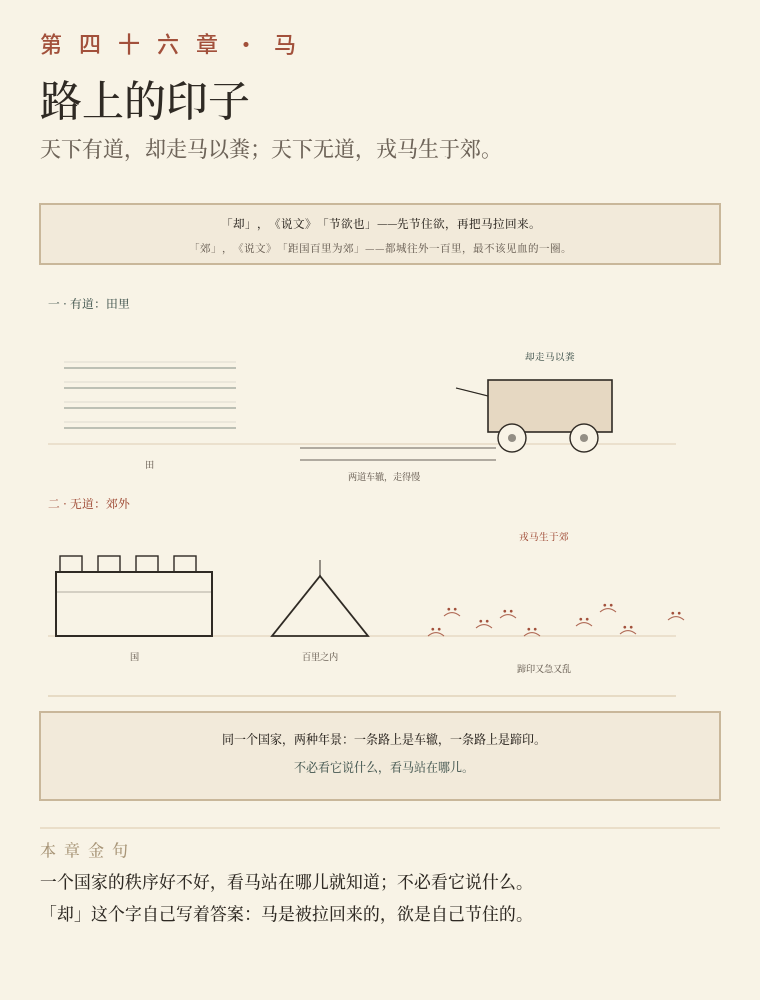
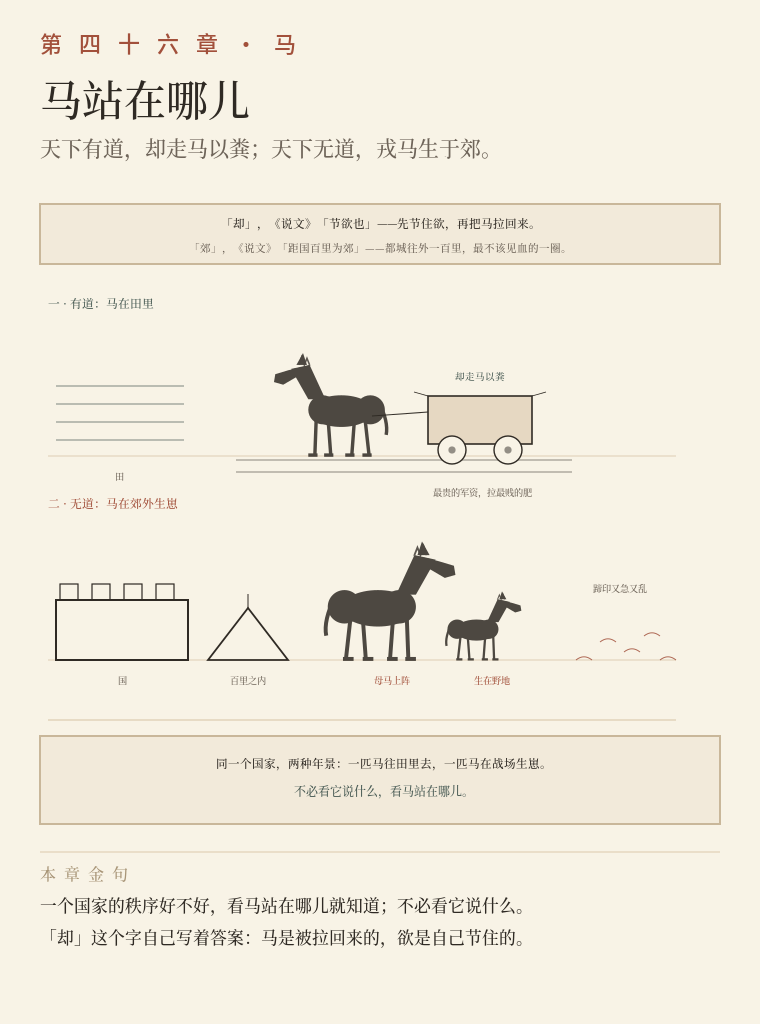
2.9.16 ch46a 重画：把马画出来

diff --git a/tools/make_yili_svg.py b/tools/make_yili_svg.py
@@ -3958,10 +3958,37 @@ def ch45c_yin_er_bu_fa():
     return "\n".join(s)
 
 # ============ 第四十六章 · 路上的印子 ============
+def horse(s, x, gy, k=1.0, flip=False, col=None, op=0.85):
+    """侧立一匹马，脚在 gy，面朝右；flip=True 面朝左。k 为缩放。"""
+    col = col or INK
+    sx = -k if flip else k
+    g = [f'<g transform="translate({x},{gy}) scale({sx},{k})" fill="{col}" opacity="{op}">']
+    # 躯干
+    g.append('<ellipse cx="-4" cy="-34" rx="24" ry="12"/>')
+    g.append('<circle cx="-26" cy="-35" r="11"/>')
+    g.append('<circle cx="10" cy="-35" r="11"/>')
+    # 颈
+    g.append('<path d="M8,-43 L21,-43 L34,-66 L20,-69 Z"/>')
+    # 头
+    g.append('<path d="M19,-69 L36,-65 L46,-62 L47,-56 L40,-54 L28,-61 Z"/>')
+    # 耳
+    g.append('<path d="M22,-69 L25,-78 L30,-69 Z"/>')
+    # 鬃
+    g.append('<path d="M20,-69 l2,-5 l2,5 l2,-6 l2,6" stroke="%s" stroke-width="1.2" fill="none" opacity="0.9"/>' % col)
+    # 尾
+    g.append(f'<path d="M-32,-42 q-8,16 -6,26" stroke="{col}" stroke-width="2.6" fill="none"/>')
+    # 四腿
+    for lx, lx2 in ((15, 16), (6, 4), (-22, -25), (-14, -12)):
+        g.append(f'<line x1="{lx}" y1="-28" x2="{lx2}" y2="-1" stroke="{col}" stroke-width="2.6"/>')
+        g.append(f'<rect x="{lx2-2}" y="-2" width="7" height="2.6"/>')
+    g.append('</g>')
+    s.extend(g)
+
+
 def ch46a_lu_shang_yin_zi():
-    W, H = 380, 500
+    W, H = 380, 512
     body, y = head(W, H, "一个国家的秩序，看马站在哪儿就知道", "第 四 十 六 章 · 马",
-                   "路上的印子", "天下有道，却走马以粪；天下无道，戎马生于郊。", H)
+                   "马站在哪儿", "天下有道，却走马以粪；天下无道，戎马生于郊。", H)
     s = [body]
 
     s.append(box(20, y + 2, 340, 30, fill="#F2EADA", stroke="#C9B79A"))
@@ -3969,58 +3996,60 @@ def ch46a_lu_shang_yin_zi():
     s.append(txt(190, y + 26, "「郊」，《说文》「距国百里为郊」——都城往外一百里，最不该见血的一圈。", 5.3, "#6E6459", "middle"))
 
     a = y + 46
-    s.append(txt(24, a + 8, "一 · 有道：田里", 5.9, GREEN))
-    gy = a + 76
+    s.append(txt(24, a + 8, "一 · 有道：马在田里", 5.9, GREEN))
+    gy = a + 82
     s.append(f'<line x1="24" y1="{gy}" x2="338" y2="{gy}" stroke="{LINE2}" stroke-width="0.7"/>')
     # 田垄
     for k in range(4):
-        yy = gy - 8 - k * 10
-        s.append(f'<line x1="32" y1="{yy}" x2="118" y2="{yy}" stroke="{GREEN}" stroke-width="0.45" opacity="0.75"/>')
-        s.append(f'<line x1="32" y1="{yy-3}" x2="118" y2="{yy-3}" stroke="{GREEN}" stroke-width="0.2" opacity="0.4"/>')
-    s.append(txt(75, gy + 12, "田", 4.6, "#6E6459", "middle"))
-    # 车辙（两道，从车往左）
-    s.append(f'<line x1="150" y1="{gy+2}" x2="248" y2="{gy+2}" stroke="{INK}" stroke-width="0.6" opacity="0.6"/>')
-    s.append(f'<line x1="150" y1="{gy+8}" x2="248" y2="{gy+8}" stroke="{INK}" stroke-width="0.6" opacity="0.6"/>')
-    s.append(txt(192, gy + 18, "两道车辙，走得慢", 4.6, "#6E6459", "middle"))
-    # 粪车
-    s.append(f'<rect x="244" y="{gy-32}" width="62" height="26" fill="#E6D8C2" stroke="{INK}" stroke-width="0.8"/>')
-    s.append(f'<line x1="244" y1="{gy-24}" x2="228" y2="{gy-28}" stroke="{INK}" stroke-width="0.6"/>')
-    for wx in (256, 292):
+        yy = gy - 8 - k * 9
+        s.append(f'<line x1="28" y1="{yy}" x2="92" y2="{yy}" stroke="{GREEN}" stroke-width="0.45" opacity="0.8"/>')
+    s.append(txt(60, gy + 12, "田", 4.6, "#6E6459", "middle"))
+    # 车辙
+    s.append(f'<line x1="118" y1="{gy+2}" x2="286" y2="{gy+2}" stroke="{INK}" stroke-width="0.5" opacity="0.55"/>')
+    s.append(f'<line x1="118" y1="{gy+8}" x2="286" y2="{gy+8}" stroke="{INK}" stroke-width="0.5" opacity="0.55"/>')
+    # 马拉车
+    horse(s, 168, gy, k=0.66, flip=True)
+    s.append(f'<line x1="186" y1="{gy-20}" x2="214" y2="{gy-22}" stroke="{INK}" stroke-width="0.5"/>')
+    s.append(f'<rect x="214" y="{gy-30}" width="52" height="24" fill="#E6D8C2" stroke="{INK}" stroke-width="0.8"/>')
+    s.append(f'<path d="M214,{gy-30} l-7,-2 M266,{gy-30} l7,-2" stroke="{INK}" stroke-width="0.4" fill="none"/>')
+    for wx in (226, 254):
         s.append(f'<circle cx="{wx}" cy="{gy-3}" r="7" fill="{PAPER}" stroke="{INK}" stroke-width="0.7"/>')
-        s.append(f'<circle cx="{wx}" cy="{gy-3}" r="2" fill="{INK}" opacity="0.5"/>')
-    s.append(txt(275, gy - 42, "却走马以粪", 4.8, GREEN, "middle"))
+        s.append(f'<circle cx="{wx}" cy="{gy-3}" r="1.8" fill="{INK}" opacity="0.5"/>')
+    s.append(txt(240, gy - 38, "却走马以粪", 4.8, GREEN, "middle"))
+    s.append(txt(241, gy + 20, "最贵的军资，拉最贱的肥", 4.6, "#6E6459", "middle"))
 
     b = a + 100
-    s.append(txt(24, b + 8, "二 · 无道：郊外", 5.9, SEAL))
-    gy2 = b + 72
+    s.append(txt(24, b + 8, "二 · 无道：马在郊外生崽", 5.9, SEAL))
+    gy2 = b + 84
     s.append(f'<line x1="24" y1="{gy2}" x2="338" y2="{gy2}" stroke="{LINE2}" stroke-width="0.7"/>')
     # 城墙
-    s.append(f'<rect x="28" y="{gy2-32}" width="78" height="32" fill="none" stroke="{INK}" stroke-width="1"/>')
+    s.append(f'<rect x="28" y="{gy2-30}" width="66" height="30" fill="none" stroke="{INK}" stroke-width="1"/>')
     for k in range(4):
-        s.append(f'<rect x="{30+k*19}" y="{gy2-40}" width="11" height="8" fill="none" stroke="{INK}" stroke-width="0.7"/>')
-    s.append(f'<line x1="28" y1="{gy2-22}" x2="106" y2="{gy2-22}" stroke="{INK}" stroke-width="0.35" opacity="0.5"/>')
-    s.append(txt(67, gy2 + 12, "国", 4.6, "#6E6459", "middle"))
+        s.append(f'<rect x="{30+k*16}" y="{gy2-38}" width="9" height="8" fill="none" stroke="{INK}" stroke-width="0.6"/>')
+    s.append(txt(61, gy2 + 12, "国", 4.6, "#6E6459", "middle"))
     # 营帐
-    s.append(f'<path d="M136,{gy2} L160,{gy2-30} L184,{gy2} Z" fill="none" stroke="{INK}" stroke-width="0.9"/>')
-    s.append(f'<line x1="160" y1="{gy2-30}" x2="160" y2="{gy2-38}" stroke="{INK}" stroke-width="0.5"/>')
-    s.append(txt(160, gy2 + 12, "百里之内", 4.6, "#6E6459", "middle"))
+    s.append(f'<path d="M104,{gy2} L124,{gy2-26} L144,{gy2} Z" fill="none" stroke="{INK}" stroke-width="0.9"/>')
+    s.append(f'<line x1="124" y1="{gy2-26}" x2="124" y2="{gy2-33}" stroke="{INK}" stroke-width="0.5"/>')
+    s.append(txt(124, gy2 + 12, "百里之内", 4.6, "#6E6459", "middle"))
+    # 母马与小马
+    horse(s, 192, gy2, k=0.76)
+    horse(s, 240, gy2, k=0.44)
+    s.append(txt(196, gy2 + 12, "母马上阵", 4.6, SEAL, "middle"))
+    s.append(txt(246, gy2 + 12, "生在野地", 4.6, SEAL, "middle"))
     # 乱蹄印
-    marks = [(214, 0), (238, 4), (262, 0), (288, 5), (310, 1), (222, 10), (250, 9), (334, 8), (300, 12)]
-    for mx, off in marks:
-        s.append(f'<path d="M{mx},{gy2-off} q4,-3.4 8,0" fill="none" stroke="{SEAL}" stroke-width="0.55" opacity="0.85"/>')
-        s.append(f'<circle cx="{mx+2.4}" cy="{gy2-off-3.4}" r="0.7" fill="{SEAL}"/>')
-        s.append(f'<circle cx="{mx+5.6}" cy="{gy2-off-3.4}" r="0.7" fill="{SEAL}"/>')
-    s.append(txt(272, gy2 - 48, "戎马生于郊", 4.8, SEAL, "middle"))
-    s.append(txt(272, gy2 + 18, "蹄印又急又乱", 4.6, "#6E6459", "middle"))
+    for mx, off in [(288, 0), (312, 4), (330, 0), (300, 9), (322, 12)]:
+        s.append(f'<path d="M{mx},{gy2-off} q4,-3.2 8,0" fill="none" stroke="{SEAL}" stroke-width="0.5" opacity="0.85"/>')
+    s.append(txt(310, gy2 - 34, "蹄印又急又乱", 4.6, "#6E6459", "middle"))
 
     c = gy2 + 30
     s.append(f'<line x1="24" y1="{c}" x2="338" y2="{c}" stroke="{LINE}" stroke-width="0.6"/>')
     s.append(box(20, c + 8, 340, 44, fill="#F2EADA", stroke="#C9B79A"))
-    s.append(txt(190, c + 24, "同一个国家，两种年景：一条路上是车辙，一条路上是蹄印。", 6.0, INK, "middle"))
+    s.append(txt(190, c + 24, "同一个国家，两种年景：一匹马往田里去，一匹马在战场生崽。", 5.8, INK, "middle"))
     s.append(txt(190, c + 38, "不必看它说什么，看马站在哪儿。", 6.0, GREEN, "middle"))
     s.append(gold(c + 66, "ch46a"))
     s.append('</svg>')
     return "\n".join(s)
+
 
 # ============ 第四十六章 · 刀改成犁 ============
 def ch46b_dao_gai_li():

diff --git a/book/义理图-体例.md b/book/义理图-体例.md
@@ -106,7 +106,7 @@
 | 四十一·b | ch41b-fan-guo-lai | 翻过来，全是反面 | 上：翻桌小象（板与四足翻在上、赭色扳手弧）；中：十二格对照（明道如昧／进道如退／夷道如颣／上德如谷／大白如辱／广德如不足／建德如偷／质真如渝／大方无隅／大器免成／大音希声／大象无形）；读图一句：不是道难懂，是道难看。 |
 | 四十 | ch40-fan-zhe | 反向的机器 | 环上双弧（翻过去／翻回来），弱作木柔曲，下附两台机器对照；本章沿用此原版 |
 | 四十 | ch40-san-dong | 一次动，三次翻 | 同一个「反」连翻三回：生一（圆而未判）、生二（一劈两半）、生三（中缝撑开，缝外标「三」） |
-| 四十六·a | ch46a-lu-shang-yin-zi | 路上的印子 | 上幅「有道」：田垄、两道车辙、一车粪慢慢走；下幅「无道」：城墙、营帐、郊外一片又急又乱的蹄印；读图一句：一个国家的秩序好不好，看马站在哪儿就知道——一条路上是车辙，一条路上是蹄印。 |
+| 四十六·a | ch46a-lu-shang-yin-zi | 马站在哪儿 | 上幅「有道」：侧立一匹马拉着粪车往田里走，两道车辙；下幅「无道」：国城墙、郊野营帐、母马带小马站在百里之内，蹄印又急又乱；读图一句：一个国家的秩序好不好，看马站在哪儿就知道——一匹马往田里去，一匹马在战场生崽。 |
 | 四十六·b | ch46b-dao-gai-li | 刀改成犁 | 左刀（为杀而生）→ 改用途 → 右犁（为生而用，犁铧入土、辕在肩）；四行：收物（粪）／收力（却）／换用途／边界不再往外长；读图一句：他不是把刀收了，是把刀改成了犁——不是取消力量，是换掉用途。 |
 | 四十六·c | ch46c-san-ge-zu | 一句话里三个「足」 | 左脚踩住地（站住）／右脚悬空还在往下探（底下没有地），下接「够的门槛」一级一级往上；三段：脚／够／常；读图一句：先站住，才够；先够，永远不够。 |
 | 四十五·a | ch45a-liu-yi-dao-feng | 留一道缝 | 上半：桥面两段之间留一道伸缩缝（赭色虚线标缝、两支箭头示伸缩），桥下两墩；下半：封死口的器一道裂纹（封死则裂）／留缝口的器气从缝出（留缝不敝）；读图一句：「大成」不是没做到头，是做到头了，还留一处不封。 |
